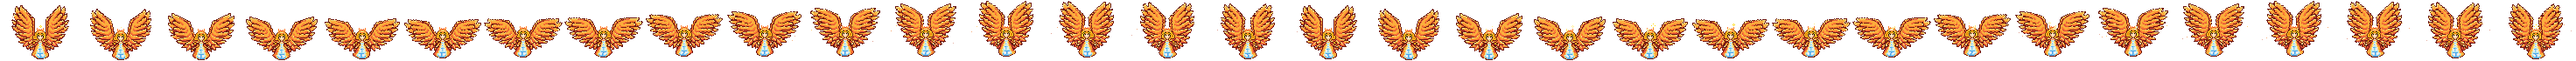
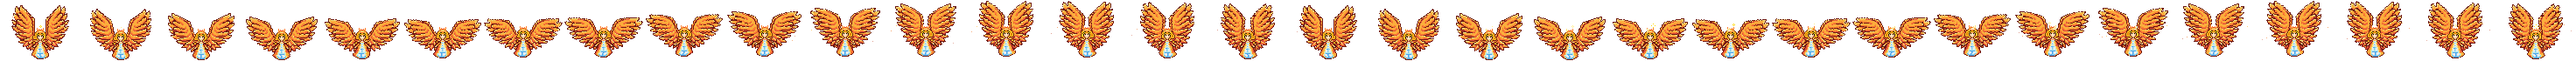
Mary-Animation: Arme mit Spannung (fast gerade, kaum Nachhängen) statt schlackernd
Claude-Session: https://claude.ai/code/session_01RGNNCJqx66xqfQieuakpGz

diff --git a/scripts/hero-animations/mary.py b/scripts/hero-animations/mary.py
@@ -166,11 +166,13 @@ def warp_row(row, xa, xb, d, side):
 
 
 def arm_swing(y, i):
-    """Seitlicher Ausschlag des Arms in Zeile y (> 0: nach außen). Ein ruhiger Schwung je 16 Frames (≈ 1,1 s, zwei je Schleife); nach unten
-    hängen die Zeilen deutlich hinterher (Pendel), sodass auch dann etwas in Bewegung ist, wenn die Hand am Umkehrpunkt steht."""
+    """Seitlicher Ausschlag des Arms in Zeile y (> 0: nach außen). Ein ruhiger Schwung je 16 Frames (≈ 1,1 s, zwei je Schleife). Der Arm
+    bleibt dabei fast gerade (er dreht sich wie ein Stab um die Schulter); nur ein ganz leichtes Nachhängen nach unten (0,08 rad je Zeile)
+    sorgt dafür, dass er nicht starr wirkt. Größere Verzögerungen ließen ihn schlackern wie eine nasse Nudel (Krümmung bis 1,9 px,
+    jetzt unter 0,4 px)."""
     w = min(1.0, max(0.0, (y - 37) / 6.0))
     t = 2 * math.pi * (i % N) / N
-    return w * (0.3 + 2.2 * math.sin(2 * t - 1.6 - 0.5 * (y - 37)))
+    return w * (0.3 + 2.0 * math.sin(2 * t - 1.6 - 0.08 * (y - 37)))
 
 
 def arm_dy(i):
